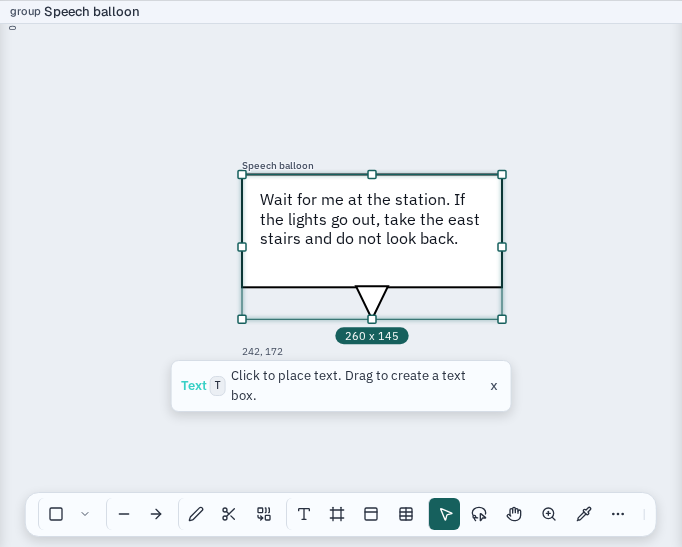
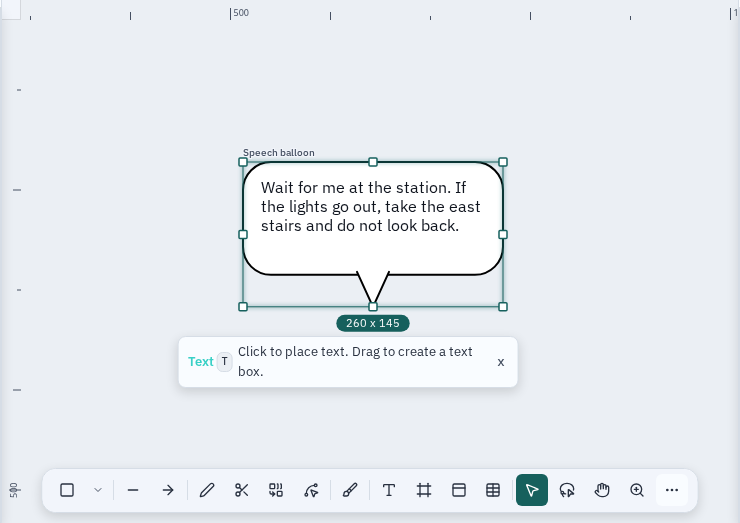
test(comics): capture balloons before optional fit

diff --git a/tests/e2e/canvas/comic-lettering.spec.ts b/tests/e2e/canvas/comic-lettering.spec.ts
@@ -117,12 +117,9 @@ test.describe('Comic lettering workflow', () => {
     expect(layers.some((name) => /balloon/i.test(name))).toBe(true);
     expect(layers.some((name) => /text/i.test(name))).toBe(true);
 
-    await page.getByRole('button', { name: 'Fit balloon to text', exact: true }).click();
-    await expect(page.getByRole('combobox', { name: 'Balloon fit policy' })).toHaveText(
-      'Fit balloon to text',
-    );
-    await expect(fitStatus).toContainText(/dialogue fits|close to|exceeds/i);
-
+    // Capture the default result before the optional fit command. Fitting can
+    // rebuild the parametric tail, so a post-fit screenshot would hide a seam
+    // that a lettering user sees immediately after wrapping text.
     mkdirSync(SHOT_DIR, { recursive: true });
     await page.screenshot({
       path: testInfo.outputPath('comic-lettering-balloon-inspector.png'),
@@ -142,6 +139,12 @@ test.describe('Comic lettering workflow', () => {
       path: `${SHOT_DIR}/01-speech-balloon-canvas.png`,
       animations: 'disabled',
     });
+
+    await page.getByRole('button', { name: 'Fit balloon to text', exact: true }).click();
+    await expect(page.getByRole('combobox', { name: 'Balloon fit policy' })).toHaveText(
+      'Fit balloon to text',
+    );
+    await expect(fitStatus).toContainText(/dialogue fits|close to|exceeds/i);
   });
 
   test('expands dialogue to a localization-length replacement and recovers by fitting', async ({
